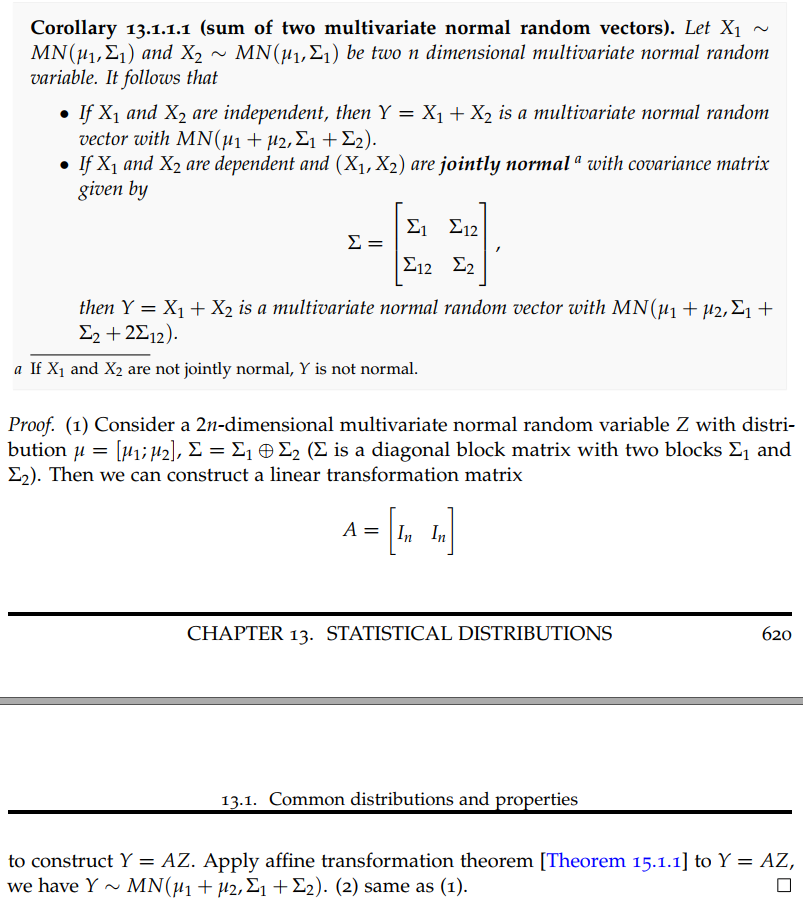
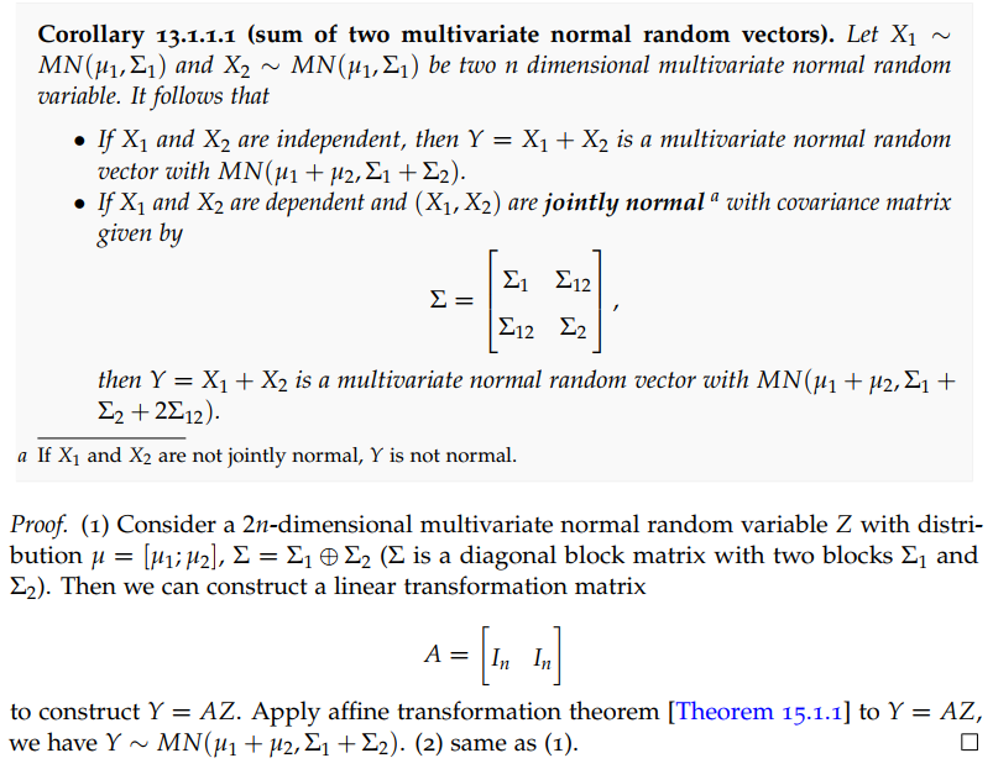
update demo

diff --git a/mathBook/Mathmain.tex b/mathBook/Mathmain.tex
@@ -543,37 +543,37 @@ ntheorem]{note}{Note}[section]
 
 
 \part{Mathematical Foundations}
-\input{../chapters/realAnalysis}
+%\input{../chapters/realAnalysis}
 %%\input{../chapters/Groups}
 \input{../chapters/linearAlgebra}
-\input{../chapters/functionalAnalysis}
+%\input{../chapters/functionalAnalysis}
 \startcontents[chapters]
 
 \part{Mathematical Optimization Methods}
 
-\input{../chapters/optimization}
+%\input{../chapters/optimization}
 %%\input{../chapters/calculusofVariations}
-\input{../chapters/gameTheory}
+%\input{../chapters/gameTheory}
 %%\input{../chapters/finance-portfolio}
 
 
 \startcontents[chapters]
 \part{Classical Statistical Methods}
-\input{../chapters/probabilityTheory}
+%\input{../chapters/probabilityTheory}
 \input{../chapters/statistics}
-\input{../chapters/statisticalModeling}
-\input{../chapters/RegressionAnalysis}
+%\input{../chapters/statisticalModeling}
+%\input{../chapters/RegressionAnalysis}
 %%\input{../chapters/analysisofVariance}
-\input{../chapters/MonteCarlo}
+%\input{../chapters/MonteCarlo}
 \startcontents[chapters]
 \part{Dynamics Modeling Methods}
 
 
-\input{../chapters/dynamicalSystem}
+%\input{../chapters/dynamicalSystem}
 %%\input{../chapters/numericalDifferentialEquations}
-\input{../chapters/stochasticProcess}
-\input{../chapters/MarkovChains}
-\input{../chapters/timeseries}
+%\input{../chapters/stochasticProcess}
+%\input{../chapters/MarkovChains}
+%\input{../chapters/timeseries}
 
 
 
@@ -592,7 +592,7 @@ ntheorem]{note}{Note}[section]
 \startcontents[chapters]	
 \part{Optimal Control and Reinforcement Learning Methods}
 
-\input{../chapters/optimalControl}
+%\input{../chapters/optimalControl}
 
 
 
@@ -600,7 +600,7 @@ ntheorem]{note}{Note}[section]
 \startcontents[chapters]
 \part{Appendix}
 \appendix
-\input{../chapters/appendixContent}
+%\input{../chapters/appendixContent}
 
 
 

diff --git a/README.md b/README.md
@@ -52,7 +52,7 @@ Currently I am working on several **mid-term** items:
 * [Basic Functional Analysis](https://github.com/yangyutu/EssentialMath/blob/master/PDFRelease/splits/328_bookMathmain.pdf)
 
 ### II Mathematical Optimization Methods
- 
+
 * [Unconstrained Nonlinear Optimization](https://github.com/yangyutu/EssentialMath/blob/master/PDFRelease/splits/375_bookMathmain.pdf)
 * [Constrained Nonlinear Optimization](https://github.com/yangyutu/EssentialMath/blob/master/PDFRelease/splits/418_bookMathmain.pdf)
 * [Linear Optimization](https://github.com/yangyutu/EssentialMath/blob/master/PDFRelease/splits/464_bookMathmain.pdf)
@@ -98,7 +98,7 @@ You are free to redistribute the material in any medium or format under the foll
 
     -Attribution: You must give appropriate credit, provide a link to the license, and indicate if changes were made. You may do so in any reasonable manner, but not in any way that suggests the licensor endorses you or your use.
     -NonCommercial: You may not use the material for commercial purposes.
-    
+
 *The licensor cannot revoke these freedoms as long as you follow the license terms. This licence is created via creative commons (https://creativecommons.org). If you have any questions regarding the license, please contact the author.
 ## Demonstration
 ### Linear algebra
@@ -154,13 +154,51 @@ In multivariate Gaussian statistics, the affine transformation theorem is used t
 
 Then the book gives the application of this theorem to the sum of multivariate Gaussian random variables. It is worth mentioning that the author emphasizes in the footnote that these result only hold when the joint normality conditions holds. 
 <p align="center">
-<img src="./Demo/affineCorollary.png" width="550" height="618"> 
+<img src="./Demo/affineCorollary.png" width="550" height="428"> 
 </p>
 
 ### Machine learning
+
+#### Fisher linear discriminant analysis
+
+We start with Fisher linear discriminant analysis by contrasting with PCA.
+
+<p align="center">
+<img src="./Demo/LDAIntro_PCA.png" width="550" height="496"> 
+</p>
+
+We use diagrams to build the intuition of deriving Fisher linear discriminant.
+
+<p align="center">
+<img src="./Demo/LDAIntro.png" width="550" height="428"> 
+</p>
+
+The intuition of deriving Fisher linear discriminant can be summarized by following definition.
+
+<p align="center">
+<img src="./Demo/LDADefinition.png" width="550" height="415"> 
+</p>
+
+
+
+We summarize the solution to the optimization problem in the following Lemma.
+
+<p align="center">
+<img src="./Demo/LDAResult.png" width="550" height="326"> 
+</p>
+
+#### Unified linear models
+
 SVM, logistic regression and Perceptron learning are commonly used linear classification model in machine learning.  The three models can be unified under the same mathematical optimization framework, with each method corresponds to a different loss function. This book elaborates and shows how to transform these three models into this unified framework.
 <p align="center">
 <img src="./Demo/machineLearningUnify.png" width="550" height="545"> 
+</p>
+#### SVD for collaborative filtering
+
+One important application of SVD in machine learning area is collaborative filtering for recommenders. 
+
+<p align="center">
+<img src="./Demo/RecommenderSystems.png" width="550" height="540"> 
 </p>
 
 ### Reinforcement learning

diff --git a/introductionChinese.md b/introductionChinese.md
@@ -150,7 +150,7 @@ SVD (矩阵奇异值分解) 是线性代数中最重要工具之一， 经常在
 <img src="./Demo/contractionMappingProof.png" width="550" height="498"> 
 </p>
 
- 
+
 
 ### **统计篇**
 
@@ -162,18 +162,59 @@ SVD (矩阵奇异值分解) 是线性代数中最重要工具之一， 经常在
 
 然后本书给出此定理在多元高斯随机变量加和中的应用。值得一提的是， 作者用脚注强调jointly normal这一重要条件。
 <p align="center">
-<img src="./Demo/affineCorollary.png" width="550" height="618"> 
+<img src="./Demo/affineCorollary.png" width="550" height="428"> 
 </p>
+
  
 
 ### **机器学习篇**
+
+#### Fisher 线性判别分析
+
+在介绍Fisher 线性判别分析时, 我们首先和PCA进行对比。
+
+<p align="center">
+<img src="./Demo/LDAIntro_PCA.png" width="550" height="496"> 
+</p>
+
+使用图示来了解背后的原理和建立直觉。
+
+<p align="center">
+<img src="./Demo/LDAIntro.png" width="550" height="428"> 
+</p>
+
+然后对我们对Fisher线性判别分析进行总结。
+
+<p align="center">
+<img src="./Demo/LDADefinition.png" width="550" height="415"> 
+</p>
+
+
+
+Fisher 优化目标的解及其性质可以总结成如下定理。
+
+<p align="center">
+<img src="./Demo/LDAResult.png" width="550" height="326"> 
+</p>
+
+#### 
+
+#### 线性模型统一构架
 
 在机器学习的线性分类模型中，三种常见模型 SVM, logistic regression 和 Perceptron learning 可以统一在同一个数学优化框架下，每种方法对应不同的loss function。作者对如何把这三种模型转化成同一个框架进行了详细的阐述和证明。
 
 <p align="center">
 <img src="./Demo/machineLearningUnify.png" width="550" height="545"> 
 </p>
- 
+####  SVD 与协同过滤
+
+SVD在机器学习领域的一项重要应用是推荐系统中的协作过滤。
+
+<p align="center">
+<img src="./Demo/RecommenderSystems.png" width="550" height="540"> 
+</p>
+
+### 
 
 ### **强化学习篇**
 
